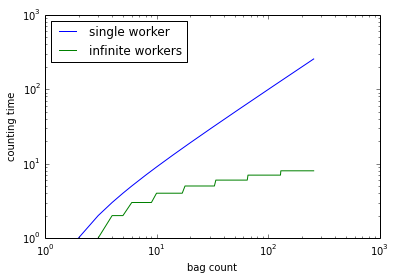
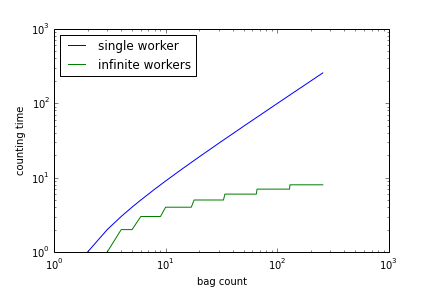
did some final corrections

diff --git a/HW0/P6/P6B.py b/HW0/P6/P6B.py
@@ -17,7 +17,7 @@ if __name__ == '__main__':
 
     # Use a variety  f wait times
     ratio = []
-    wait_time = [10**(k) for k in range(-6,1,1)]
+    wait_time = [10**(k) for k in np.arange(-6,1,.5)]
 
     for t in wait_time:
         # Compute jobs serially 
@@ -27,10 +27,9 @@ if __name__ == '__main__':
         end=time.time()
         # Use time.time() to compute the elapsed time for each
         serialTime = begin-end 
-        print(serialTime)
         #and in parallel       
         begin=time.time()
-        pool.map(burnTime, range(16))
+        pool.map(burnTime, [t]*16)
         end=time.time()
         # Use time.time() to compute the elapsed time for each
         parallelTime = begin-end 
